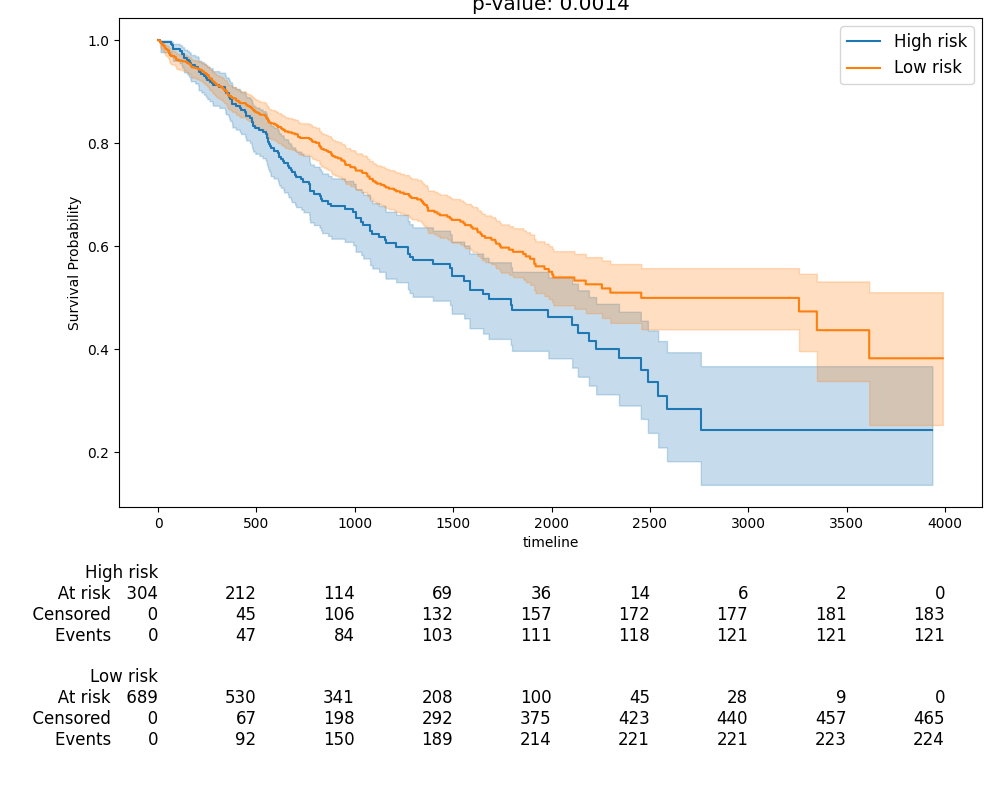
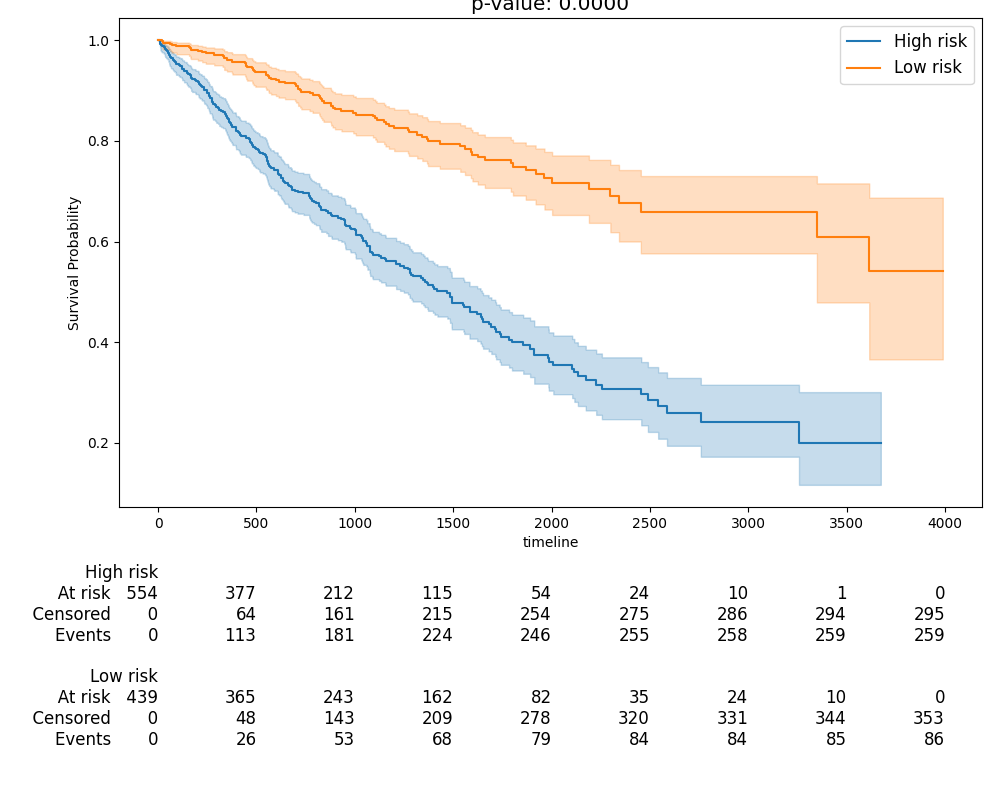
update bandit

diff --git a/analysis/a05_outcome_prediction/m_survival_analysis.py b/analysis/a05_outcome_prediction/m_survival_analysis.py
@@ -4442,13 +4442,14 @@ class SurvivalAnalyzer:
             loss_type='adaptive',  # 'weighted', 'bayesian', 'adaptive', 'ensemble'
             exploration_weight=0.2,
             entropy_weight=0.05,
+            rp_cost_weight=0.0,
             temperature=1.0,
             device='cuda',
             random_state=42
         )
 
         # Create pipeline
-        pipeline = ContextualBanditPipeline(bandit, use_soft_ensemble=True)
+        pipeline = ContextualBanditPipeline(bandit, use_soft_ensemble=False)
 
         # Fit
         pipeline.fit(X_rad_train, X_path_train, tr_y)